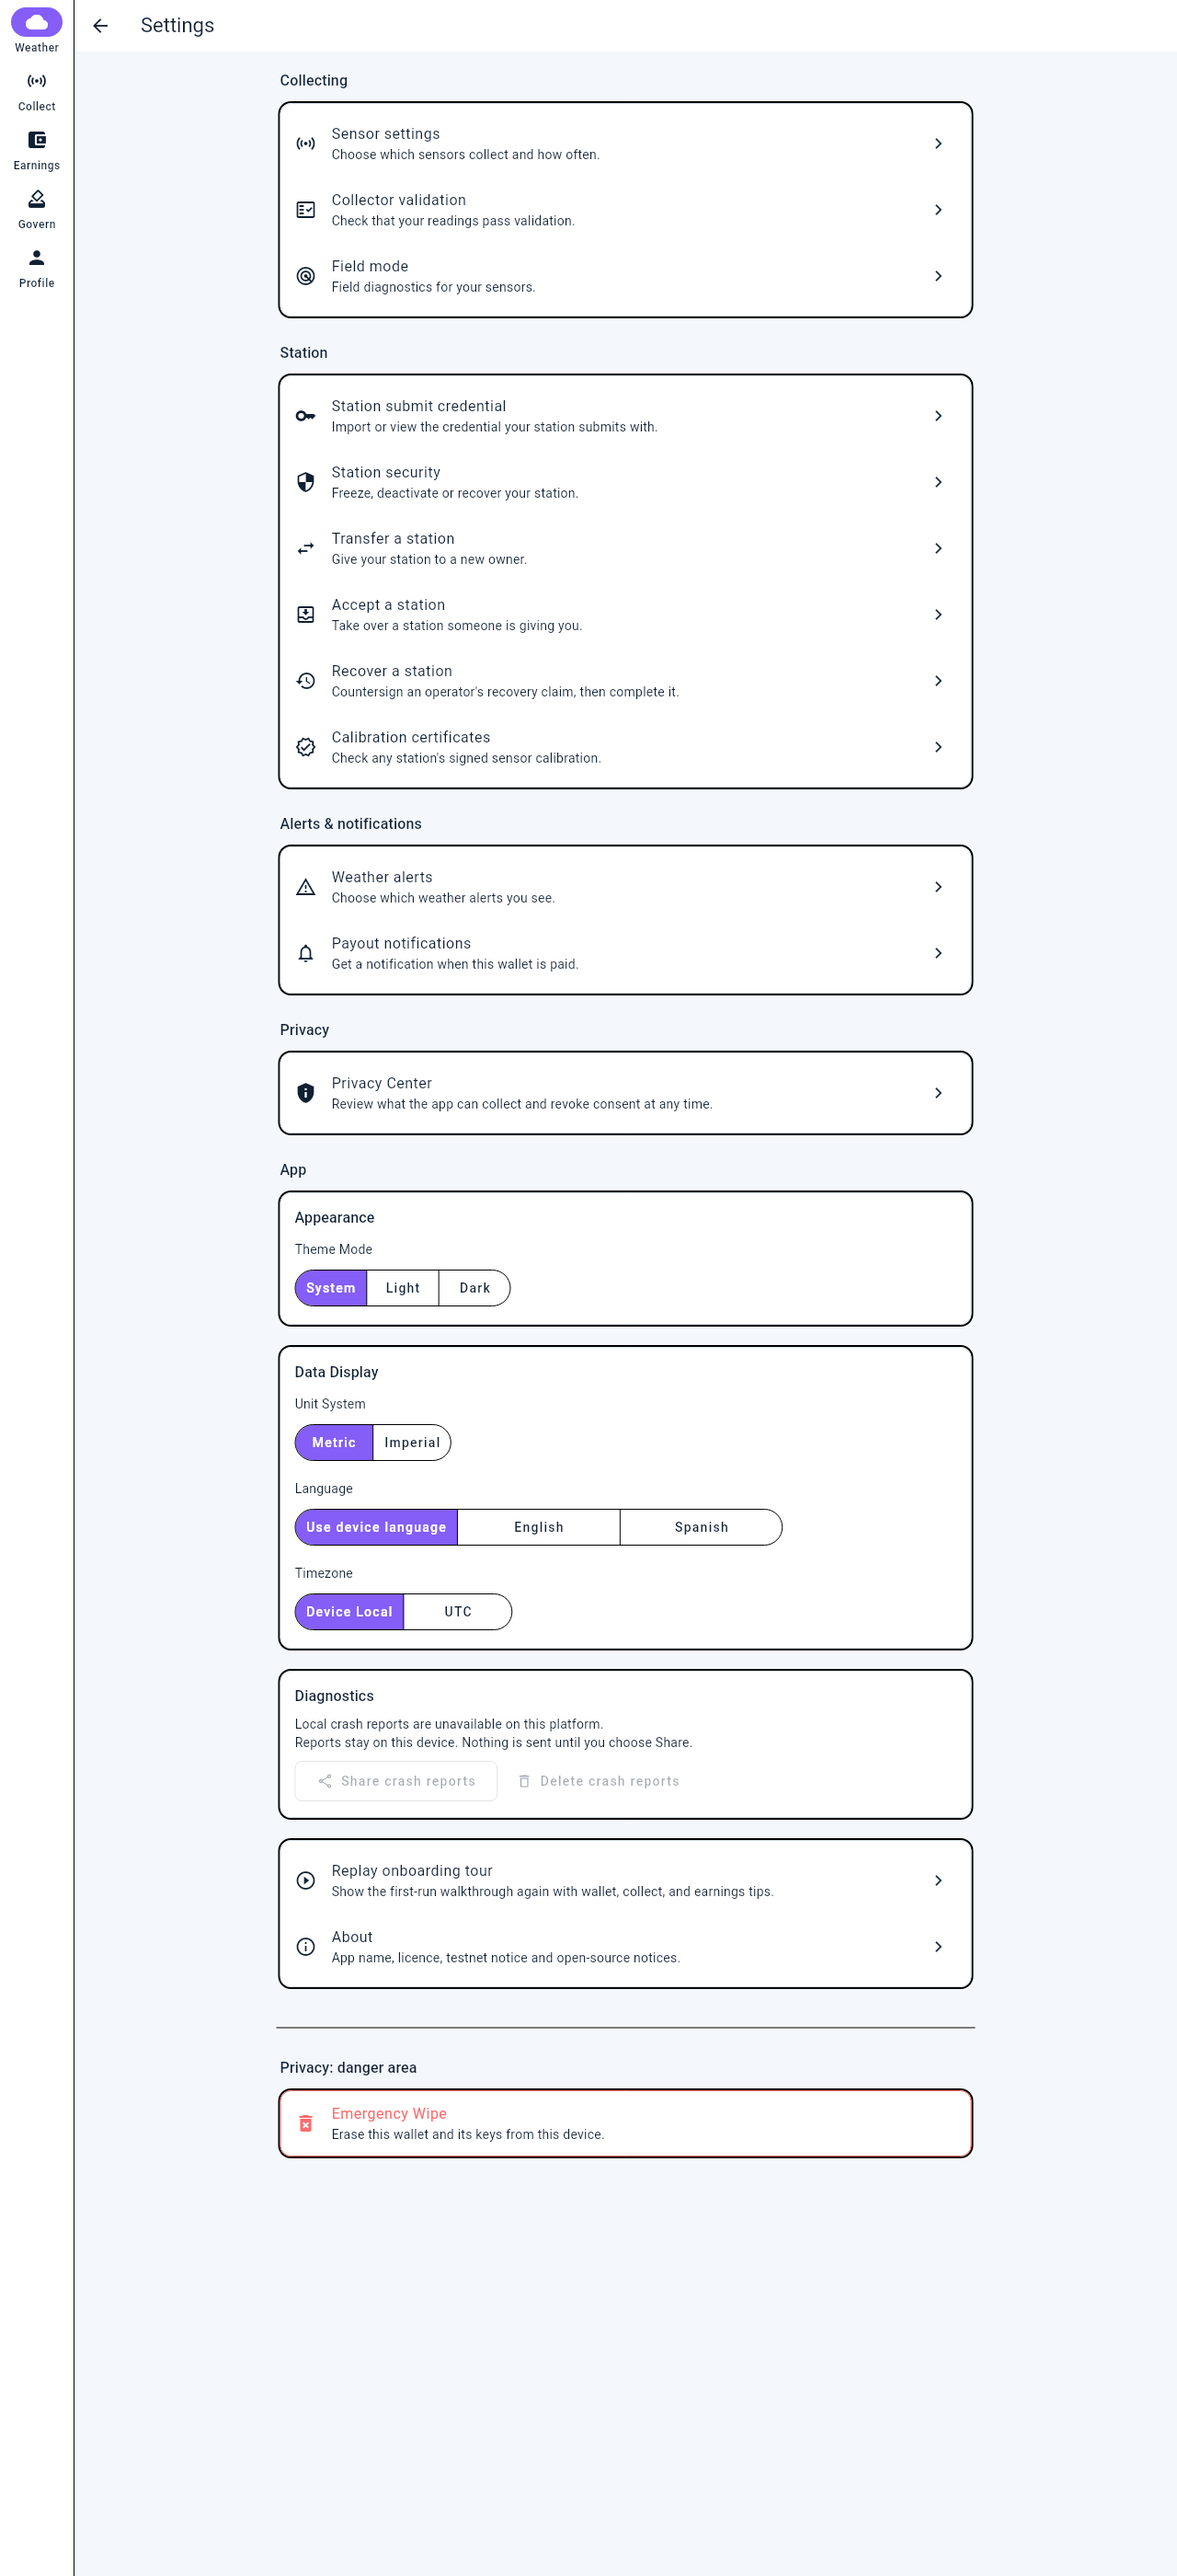
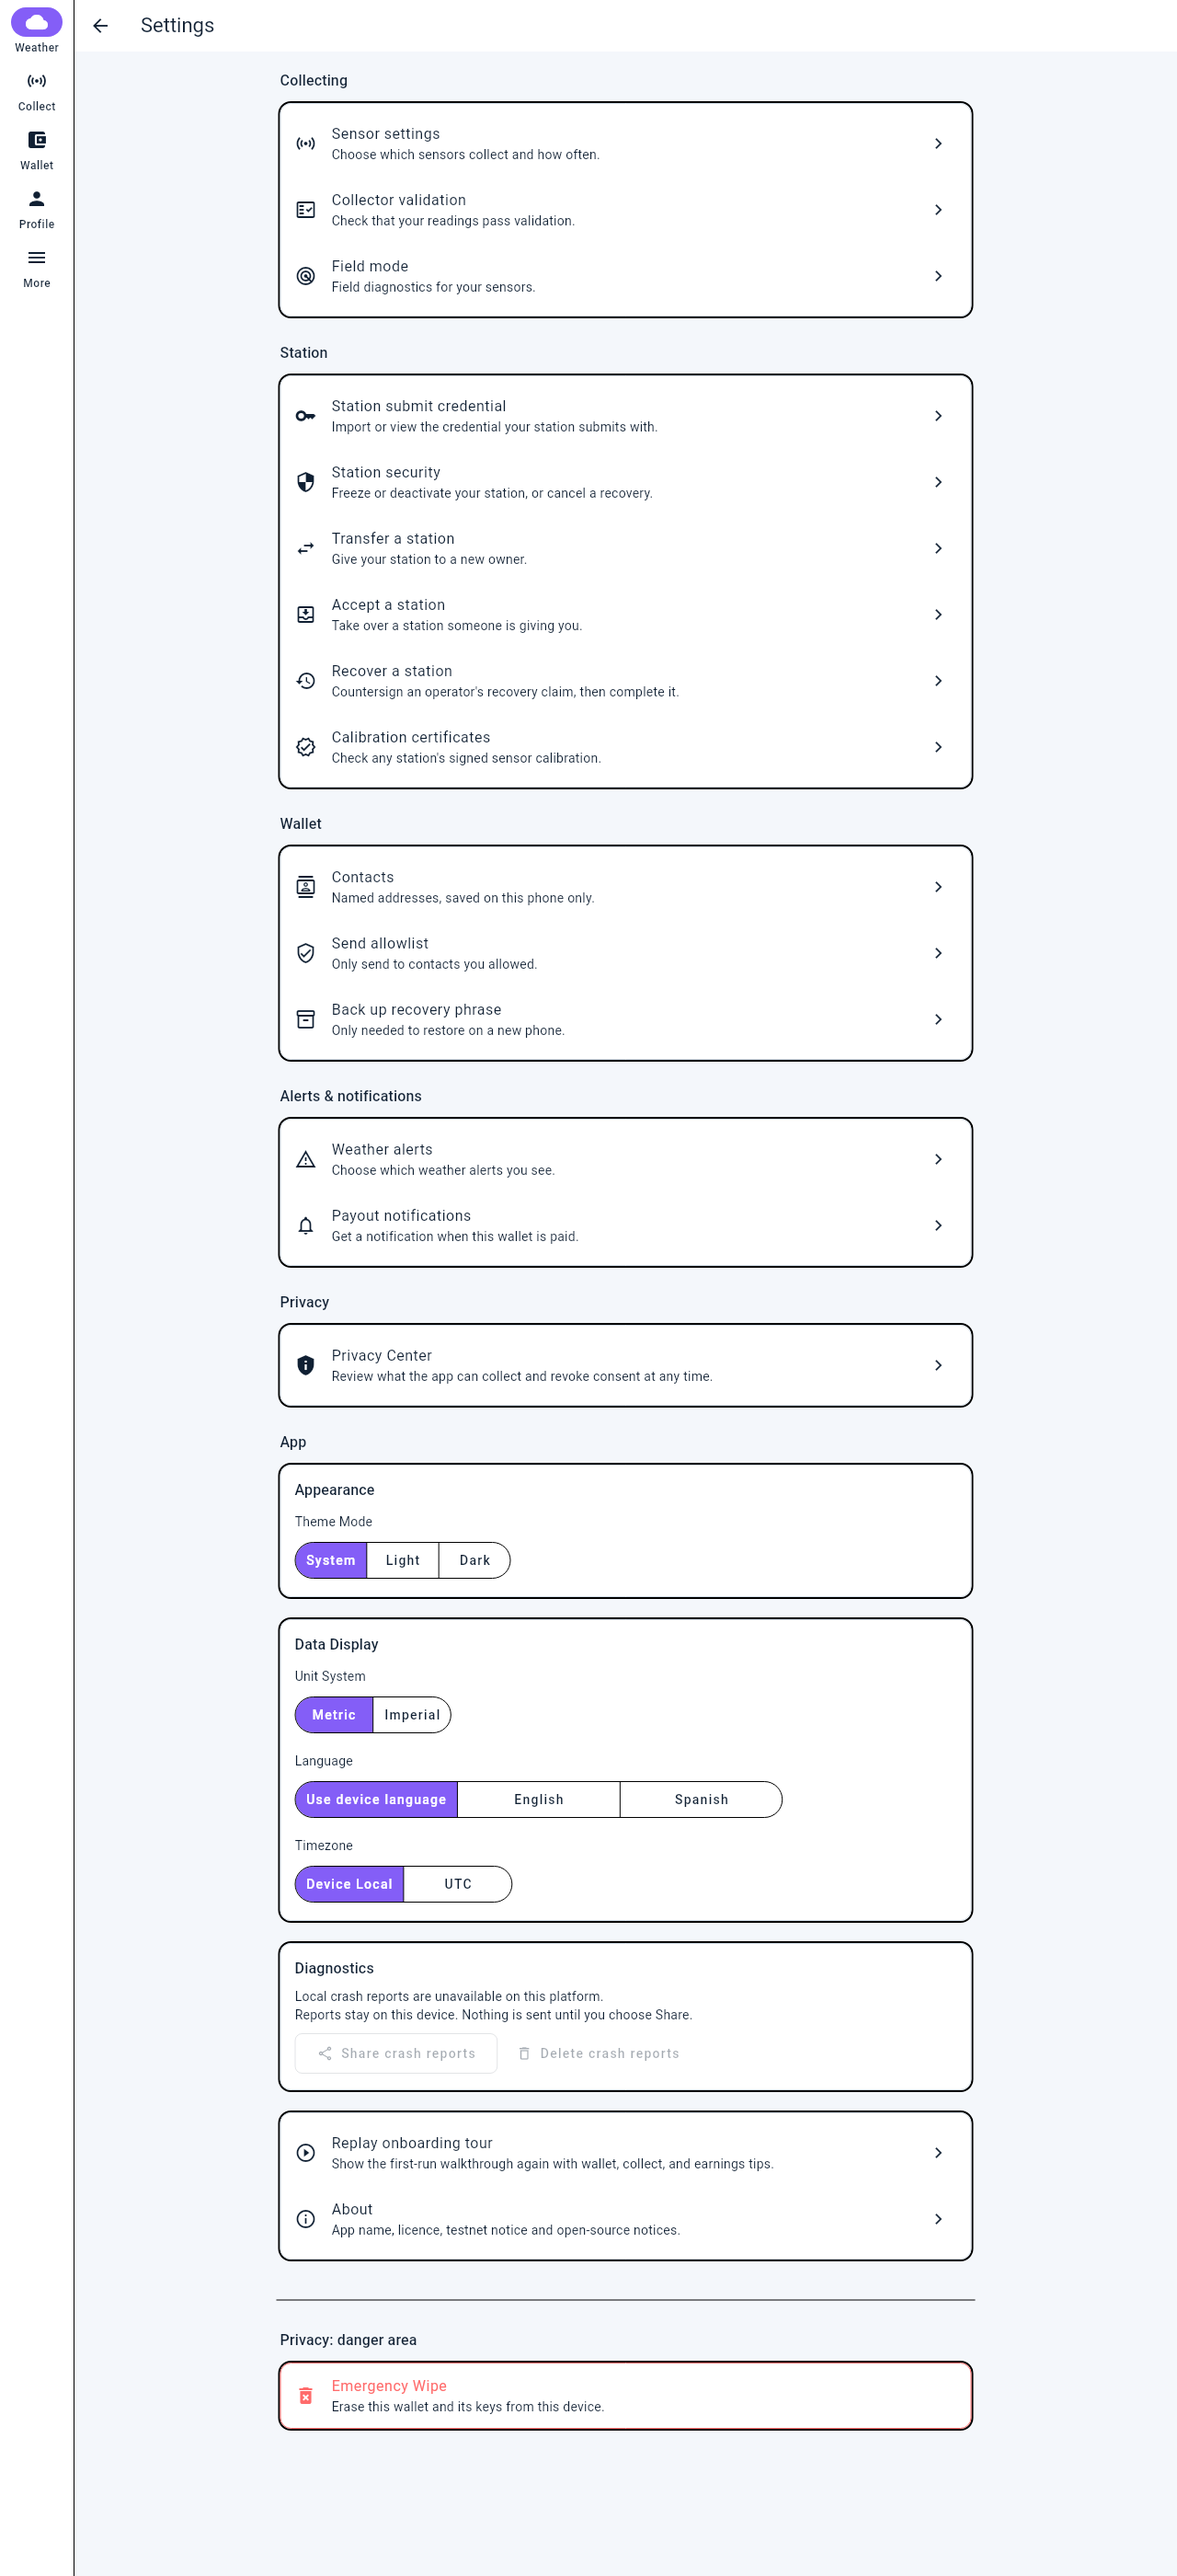
fix(settings): say what Station security really offers (#47)
Claude-Session: https://claude.ai/code/session_01HDDj5w8EXdxfLGpF53zrxn

diff --git a/test/core/routing/settings_home_test.dart b/test/core/routing/settings_home_test.dart
@@ -281,6 +281,19 @@ void main() {
     expect(tester.takeException(), isNull);
   });
 
+  testWidgets('Station security says what that screen does', (tester) async {
+    await pumpApp(tester);
+    await tester.tap(find.byType(SettingsGearButton));
+    await pumpUntilFound(tester, find.text('Station security'));
+    await pumpFrames(tester);
+    expect(
+      find.text('Freeze or deactivate your station, or cancel a recovery.'),
+      findsOneWidget,
+    );
+    expect(find.textContaining('recover your station'), findsNothing);
+    expect(find.text('Recover a station'), findsOneWidget);
+  });
+
   testWidgets('Settings does not overflow at 390 px', (tester) async {
     final router = await pumpApp(tester, size: const Size(390, 3200));
     router.go('/profile/settings');

diff --git a/lib/features/settings/presentation/screens/app_settings_screen.dart b/lib/features/settings/presentation/screens/app_settings_screen.dart
@@ -63,7 +63,7 @@ class AppSettingsScreen extends ConsumerWidget {
               _entry(
                 Icons.security,
                 'Station security',
-                'Freeze, deactivate or recover your station.',
+                'Freeze or deactivate your station, or cancel a recovery.',
                 () => context.push('/collect/station-security'),
               ),
               _entry(
